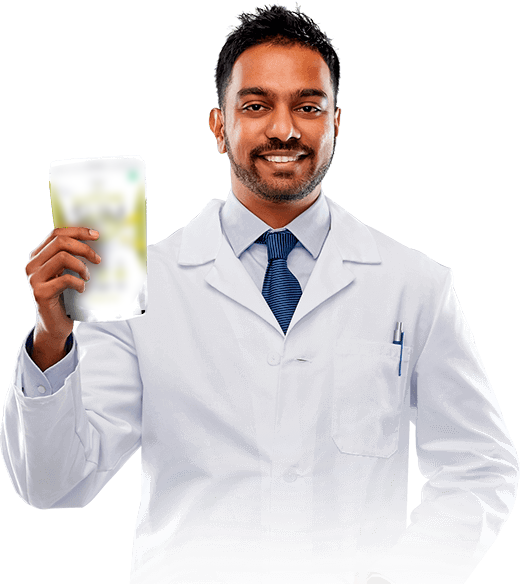
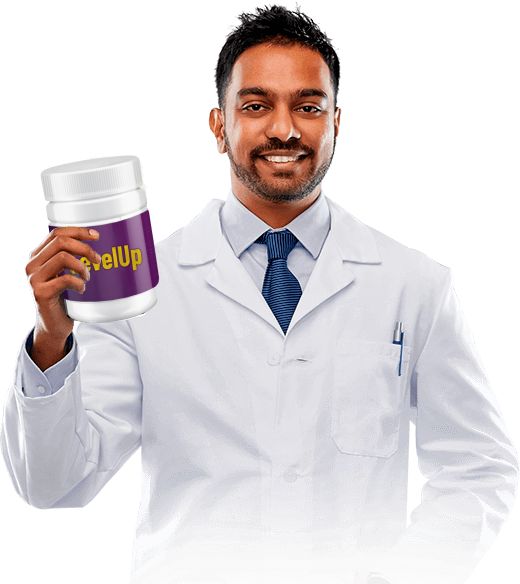
change slider and add photo

Changed region(s): [[0.0615, 0.2466, 0.3077, 0.5548]]

diff --git a/dist/css/style.min.css b/dist/css/style.min.css
@@ -4,4 +4,4 @@
  * Copyright 2011-2020 Twitter, Inc.
  * Licensed under MIT (https://github.com/twbs/bootstrap/blob/main/LICENSE)
  * Forked from Normalize.css, licensed MIT (https://github.com/necolas/normalize.css/blob/master/LICENSE.md)
- */*,::after,::before{box-sizing:border-box}@media (prefers-reduced-motion:no-preference){:root{scroll-behavior:smooth}}body{margin:0;font-family:system-ui,-apple-system,"Segoe UI",Roboto,"Helvetica Neue",Arial,"Noto Sans","Liberation Sans",sans-serif,"Apple Color Emoji","Segoe UI Emoji","Segoe UI Symbol","Noto Color Emoji";font-size:1rem;font-weight:400;line-height:1.5;color:#212529;background-color:#fff;-webkit-text-size-adjust:100%;-webkit-tap-highlight-color:transparent}[tabindex="-1"]:focus:not(:focus-visible){outline:0!important}hr{margin:1rem 0;color:inherit;background-color:currentColor;border:0;opacity:.25}hr:not([size]){height:1px}h1,h2,h3,h4,h5,h6{margin-top:0;margin-bottom:.5rem;font-weight:500;line-height:1.2}h1{font-size:calc(1.375rem + 1.5vw)}@media (min-width:1200px){h1{font-size:2.5rem}}h2{font-size:calc(1.325rem + .9vw)}@media (min-width:1200px){h2{font-size:2rem}}h3{font-size:calc(1.3rem + .6vw)}@media (min-width:1200px){h3{font-size:1.75rem}}h4{font-size:calc(1.275rem + .3vw)}@media (min-width:1200px){h4{font-size:1.5rem}}h5{font-size:1.25rem}h6{font-size:1rem}p{margin-top:0;margin-bottom:1rem}abbr[data-bs-original-title],abbr[title]{text-decoration:underline;-webkit-text-decoration:underline dotted;text-decoration:underline dotted;cursor:help;-webkit-text-decoration-skip-ink:none;text-decoration-skip-ink:none}address{margin-bottom:1rem;font-style:normal;line-height:inherit}ol,ul{padding-left:2rem}dl,ol,ul{margin-top:0;margin-bottom:1rem}ol ol,ol ul,ul ol,ul ul{margin-bottom:0}dt{font-weight:700}dd{margin-bottom:.5rem;margin-left:0}blockquote{margin:0 0 1rem}b,strong{font-weight:bolder}small{font-size:.875em}mark{padding:.2em;background-color:#fcf8e3}sub,sup{position:relative;font-size:.75em;line-height:0;vertical-align:baseline}sub{bottom:-.25em}sup{top:-.5em}a{color:#0d6efd;text-decoration:underline}a:hover{color:#0a58ca}a:not([href]):not([class]),a:not([href]):not([class]):hover{color:inherit;text-decoration:none}code,kbd,pre,samp{font-family:SFMono-Regular,Menlo,Monaco,Consolas,"Liberation Mono","Courier New",monospace;font-size:1em;direction:ltr;unicode-bidi:bidi-override}pre{display:block;margin-top:0;margin-bottom:1rem;overflow:auto;font-size:.875em}pre code{font-size:inherit;color:inherit;word-break:normal}code{font-size:.875em;color:#d63384;word-wrap:break-word}a>code{color:inherit}kbd{padding:.2rem .4rem;font-size:.875em;color:#fff;background-color:#212529;border-radius:.2rem}kbd kbd{padding:0;font-size:1em;font-weight:700}figure{margin:0 0 1rem}img,svg{vertical-align:middle}table{caption-side:bottom;border-collapse:collapse}caption{padding-top:.5rem;padding-bottom:.5rem;color:#6c757d;text-align:left}th{text-align:inherit;text-align:-webkit-match-parent}tbody,td,tfoot,th,thead,tr{border-color:inherit;border-style:solid;border-width:0}label{display:inline-block}button{border-radius:0}button:focus{outline:dotted 1px;outline:-webkit-focus-ring-color auto 5px}button,input,optgroup,select,textarea{margin:0;font-family:inherit;font-size:inherit;line-height:inherit}button,select{text-transform:none}[role=button]{cursor:pointer}select{word-wrap:normal}[list]::-webkit-calendar-picker-indicator{display:none}[type=button],[type=reset],[type=submit],button{-webkit-appearance:button}[type=button]:not(:disabled),[type=reset]:not(:disabled),[type=submit]:not(:disabled),button:not(:disabled){cursor:pointer}::-moz-focus-inner{padding:0;border-style:none}textarea{resize:vertical}fieldset{min-width:0;padding:0;margin:0;border:0}legend{float:left;width:100%;padding:0;margin-bottom:.5rem;font-size:calc(1.275rem + .3vw);line-height:inherit}@media (min-width:1200px){legend{font-size:1.5rem}}legend+*{clear:left}::-webkit-datetime-edit-day-field,::-webkit-datetime-edit-fields-wrapper,::-webkit-datetime-edit-hour-field,::-webkit-datetime-edit-minute,::-webkit-datetime-edit-month-field,::-webkit-datetime-edit-text,::-webkit-datetime-edit-year-field{padding:0}::-webkit-inner-spin-button{height:auto}[type=search]{outline-offset:-2px;-webkit-appearance:textfield}::-webkit-search-decoration{-webkit-appearance:none}::-webkit-color-swatch-wrapper{padding:0}::file-selector-button{font:inherit}::-webkit-file-upload-button{font:inherit;-webkit-appearance:button}output{display:inline-block}iframe{border:0}summary{display:list-item;cursor:pointer}progress{vertical-align:baseline}[hidden]{display:none!important}@font-face{font-family:Roboto;font-display:swap;src:url(../fonts/Roboto-Light.eot);src:url(../fonts/Roboto-Light.eot?#iefix) format("embedded-opentype"),url(../fonts/Roboto-Light.woff) format("woff"),url(../fonts/Roboto-Light.woff2) format("woff2"),url(../fonts/Roboto-Light.ttf) format("truetype");font-weight:300;font-style:normal}@font-face{font-family:Roboto;font-display:swap;src:url(Roboto-Regular.eot);src:url(Roboto-Regular.eot?#iefix) format("embedded-opentype"),url(../fonts/Roboto-Regular.woff) format("woff"),url(../fonts/Roboto-Regular.woff2) format("woff2"),url(../fonts/Roboto-Regular.ttf) format("truetype");font-weight:400;font-style:normal}@font-face{font-family:Roboto;font-display:swap;src:url(../fonts/Roboto-Bold.eot);src:url(../fonts/Roboto-Bold.eot?#iefix) format("embedded-opentype"),url(../fonts/Roboto-Bold.woff) format("woff"),url(../fonts/Roboto-Bold.woff2) format("woff2"),url(../fonts/Roboto-Bold.ttf) format("truetype");font-weight:700;font-style:normal}.promo{position:relative;min-height:725px;overflow:hidden;padding:40px 0 70px 0}.promo__bg::after{content:'';position:absolute;top:0;left:0;width:100%;height:100%;z-index:5;background-color:rgba(0,0,0,.8)}.promo__bg{position:absolute;top:0;left:0;width:100%;height:100%;overflow:hidden;background-color:#ccc}.promo__video{position:absolute;top:50%;left:50%;min-width:100%;min-height:100%;-o-object-fit:cover;object-fit:cover;transform:translate(-50%,-50%)}.promo__content{background-color:rgba(0,0,0,.6);position:absolute;top:0;left:0;width:100%;height:100%;z-index:10}.promo__wrapper{padding:50px 0 30px;display:flex;justify-content:center}.promo__img{width:235px}.promo__img img{width:100%}.promo__list{position:relative;margin-left:65px;padding-top:40px;width:500px;font-weight:400;font-size:26px;color:#fff;list-style-type:none}.promo__list li{position:relative;margin-bottom:45px}.promo__list li::before{content:'';position:absolute;background-color:#e98d25;width:10px;height:10px;left:-28px;top:14px}.title{color:#e98d25;text-align:center;font-weight:700;font-size:80px}.button{display:block;margin:0 auto;padding-top:8px;width:180px;height:45px;border-radius:15px;background-color:#e98d25;border:none;color:#fff;font-size:18px;font-weight:400;text-align:center;text-transform:uppercase}.button:hover{box-shadow:0 0 8px 3px #cfa20e}.button_form{padding:0;width:220px}@media (max-width:776px){.button{width:130px;height:23px}.button_main{width:270px;height:38px}.button_submit{width:100%;height:47px;font-size:16px}.button_mini{width:115px;height:40px;font-size:14px}}@media (max-width:575px){.button_submit{height:43px;font-size:16px}}.composition{min-height:670px;padding:70px 0;background:linear-gradient(to bottom right,#8089af,#a86c3b)}.composition__wrapper{padding-bottom:30px;display:flex;justify-content:space-around;align-items:center}.composition__prod{width:245px}.composition__prod img{width:100%}.items{display:flex;flex-direction:column;align-items:center}.items__item{width:260px;text-align:center;font-size:17px;line-height:1.5;font-weight:300;color:#fff;margin-bottom:33px}.items__ring{margin:0 auto;width:90px;height:90px;display:flex;justify-content:center;align-items:center;border:#e98d25 solid 3px;border-radius:100%}@media (max-width:1201px){.items__item{width:200px;font-size:13px}}@media (max-width:991px){.items__item{width:165px;font-size:12px;margin:0 7px 20px 7px}.items__item:nth-child(4){margin-right:7px}.items__item:nth-child(7){margin-right:7px}.items__item span{font-size:14px}.items__item img{margin-bottom:10px;width:50px}}.reviews{position:relative;min-height:470px;padding:51px 0 65px 0;background:linear-gradient(to top right,#cdd0df,#ca8e5e)}.reviews__title{color:#000;font-weight:700;font-size:25px;text-transform:uppercase;text-align:center;margin-bottom:60px}.reviews .carousel{width:80%;margin:0 auto}.reviews .slick-arrow{position:absolute;top:12%;border:none;background-color:#fff}.reviews .slick-arrow:active,.reviews .slick-arrow:focus{outline:0;border:none}.reviews .slick-arrow img{width:14px;height:46px}.reviews .slick-prev{left:41%;z-index:2}.reviews .slick-next{right:41%}@media (max-width:991px){.reviews .slick-prev{left:34%}.reviews .slick-next{right:34%}}@media (max-width:575px){.reviews{padding:30px 15px 10px}.reviews .slick-prev{left:28%}.reviews .slick-next{right:28%}}.scrollUp_flex{display:flex;position:fixed;right:40px;bottom:40px;width:60px;height:60px;border-radius:100%;background-color:#e98d25;justify-content:center;align-items:center}@media (max-width:776px){.scrollUp_flex{right:10px;bottom:10px;width:50px;height:50px}}.scrollUp_flex img{width:90%;padding-bottom:3px}.scrollUp{display:none}.promo-2{min-height:670px;padding:70px 0;background:linear-gradient(to top right,#828bb1,#85654b)}.promo-2__wrapper{display:flex;justify-content:center;align-items:center}.promo-2__img{width:300px}.promo-2__img img{width:100%}.promo-2__descr{margin-left:60px;width:500px;font-weight:400;font-size:20px;color:#fff}.promo-2__list{margin:50px 0;display:flex;justify-content:space-around;font-weight:400;font-size:18px;color:#e98d25;list-style-type:none;text-transform:uppercase}.form-order{min-height:670px;padding:70px 0;background:linear-gradient(to bottom right,#8089af,#a86c3b)}.form-order__timer{margin-top:30px;display:flex;justify-content:center}.form-order__wrapper{margin-top:60px;display:flex;justify-content:center}.form-order__prod{display:flex;align-items:center;margin-right:80px}.form-order__price{margin-right:30px;display:flex;flex-direction:column;height:200px;width:200px;align-items:center;font-weight:700;justify-content:space-around}.form-order__newPrice{color:red;font-size:37px;-webkit-animation:heartbeat 3s ease infinite;animation:heartbeat 3s ease infinite}.form-order__oldPrice{color:#351d1d;font-size:30px;text-decoration:line-through}.form-order__img{width:250px}.form-order__img img{width:100%}.form{display:flex;flex-direction:column;width:400px;height:355px;align-items:center;background-color:rgba(109,103,103,.8);border:#363131 solid 1px;border-radius:0 0 5px 5px}.form__title{padding-top:8px;text-align:center;width:100%;height:50px;background-color:#28163e;font-weight:400;font-size:26px;color:#fff}.form input{margin:20px 0;width:80%;height:40px;border-radius:10px;padding-left:20px;color:#000;font-size:18px;font-weight:300}.form input:nth-child(3){margin-bottom:70px}.countdown{display:flex;color:#fff;font-weight:400;text-align:center;font-size:30px}.countdown-number{display:flex;flex-direction:column;padding:5px;margin:0 3px;border-radius:10px;background:#e98d25}.countdown-time{padding:15px;border-radius:10px;background:#cf9e42}.countdown-text{display:block;padding-top:5px;font-size:16px}@-webkit-keyframes heartbeat{from{transform:scale(1)}50%{transform:scale(1.2)}to{transform:scale(1)}}@keyframes heartbeat{from{transform:scale(1)}50%{transform:scale(1.2)}to{transform:scale(1)}}.slick-slider{position:relative;margin-top:31px;display:block;box-sizing:border-box;-webkit-user-select:none;-moz-user-select:none;-ms-user-select:none;user-select:none;-webkit-touch-callout:none;-khtml-user-select:none;touch-action:pan-y;-webkit-tap-highlight-color:transparent}.slick-list{position:relative;display:block;overflow:hidden;margin:0;padding:0}.slick-list:focus{outline:0}.slick-list.dragging{cursor:pointer;cursor:hand}.slick-slider .slick-list,.slick-slider .slick-track{transform:translate3d(0,0,0)}.slick-track{position:relative;top:0;left:0;display:block;margin-left:0;margin-right:0}.slick-track:after,.slick-track:before{display:table;content:''}.slick-track:after{clear:both}.slick-loading .slick-track{visibility:hidden}.slick-slide{display:none;float:left;opacity:.4;height:100%;min-height:1px}.slick-slide .carousel__title{margin-top:19px;font-size:18px;font-weight:700;color:#3a3a3a;text-align:center}.slick-slide .carousel__descr{padding:0 80px 0 80px;margin-top:4px;font-size:10px;font-weight:400;color:#3a3a3a;text-align:center}@media (max-width:1201px){.slick-slide .carousel__descr{padding:0 60px 0 60px}}.slick-slide .carousel__title{margin-top:12px;font-size:14px}[dir=rtl] .slick-slide{float:right}.slick-slide img{display:block;margin:0 auto;width:75px;height:75px;border-radius:100%}.slick-slide.slick-loading img{display:none}.slick-slide.dragging img{pointer-events:none}.slick-initialized .slick-slide{display:block}.slick-loading .slick-slide{visibility:hidden}.slick-vertical .slick-slide{display:block;height:auto;border:1px solid transparent}.slick-arrow.slick-hidden{display:none}.slick-center{width:600px;opacity:1}.slick-center .carousel__title{margin-top:14px;font-size:16px}@media (max-width:575px){.slick-center .carousel__title{font-size:14px}}.slick-center .carousel__descr{margin-top:2px;padding:0;font-size:14px}@media (max-width:575px){.slick-center .carousel__descr{font-size:12px}}.slick-center img{width:114px;height:114px}*{font-family:Roboto,sans-serif}.container{width:1140px;position:relative;margin:0 auto}a{text-decoration:none}a:hover{color:#fff}@media (max-width:1201px){.container{width:900px}}@media (max-width:991px){.container{width:700px}}@media (max-width:776px){.container{width:500px}}@media (max-width:575px){.container{width:85%}}
+ */*,::after,::before{box-sizing:border-box}@media (prefers-reduced-motion:no-preference){:root{scroll-behavior:smooth}}body{margin:0;font-family:system-ui,-apple-system,"Segoe UI",Roboto,"Helvetica Neue",Arial,"Noto Sans","Liberation Sans",sans-serif,"Apple Color Emoji","Segoe UI Emoji","Segoe UI Symbol","Noto Color Emoji";font-size:1rem;font-weight:400;line-height:1.5;color:#212529;background-color:#fff;-webkit-text-size-adjust:100%;-webkit-tap-highlight-color:transparent}[tabindex="-1"]:focus:not(:focus-visible){outline:0!important}hr{margin:1rem 0;color:inherit;background-color:currentColor;border:0;opacity:.25}hr:not([size]){height:1px}h1,h2,h3,h4,h5,h6{margin-top:0;margin-bottom:.5rem;font-weight:500;line-height:1.2}h1{font-size:calc(1.375rem + 1.5vw)}@media (min-width:1200px){h1{font-size:2.5rem}}h2{font-size:calc(1.325rem + .9vw)}@media (min-width:1200px){h2{font-size:2rem}}h3{font-size:calc(1.3rem + .6vw)}@media (min-width:1200px){h3{font-size:1.75rem}}h4{font-size:calc(1.275rem + .3vw)}@media (min-width:1200px){h4{font-size:1.5rem}}h5{font-size:1.25rem}h6{font-size:1rem}p{margin-top:0;margin-bottom:1rem}abbr[data-bs-original-title],abbr[title]{text-decoration:underline;-webkit-text-decoration:underline dotted;text-decoration:underline dotted;cursor:help;-webkit-text-decoration-skip-ink:none;text-decoration-skip-ink:none}address{margin-bottom:1rem;font-style:normal;line-height:inherit}ol,ul{padding-left:2rem}dl,ol,ul{margin-top:0;margin-bottom:1rem}ol ol,ol ul,ul ol,ul ul{margin-bottom:0}dt{font-weight:700}dd{margin-bottom:.5rem;margin-left:0}blockquote{margin:0 0 1rem}b,strong{font-weight:bolder}small{font-size:.875em}mark{padding:.2em;background-color:#fcf8e3}sub,sup{position:relative;font-size:.75em;line-height:0;vertical-align:baseline}sub{bottom:-.25em}sup{top:-.5em}a{color:#0d6efd;text-decoration:underline}a:hover{color:#0a58ca}a:not([href]):not([class]),a:not([href]):not([class]):hover{color:inherit;text-decoration:none}code,kbd,pre,samp{font-family:SFMono-Regular,Menlo,Monaco,Consolas,"Liberation Mono","Courier New",monospace;font-size:1em;direction:ltr;unicode-bidi:bidi-override}pre{display:block;margin-top:0;margin-bottom:1rem;overflow:auto;font-size:.875em}pre code{font-size:inherit;color:inherit;word-break:normal}code{font-size:.875em;color:#d63384;word-wrap:break-word}a>code{color:inherit}kbd{padding:.2rem .4rem;font-size:.875em;color:#fff;background-color:#212529;border-radius:.2rem}kbd kbd{padding:0;font-size:1em;font-weight:700}figure{margin:0 0 1rem}img,svg{vertical-align:middle}table{caption-side:bottom;border-collapse:collapse}caption{padding-top:.5rem;padding-bottom:.5rem;color:#6c757d;text-align:left}th{text-align:inherit;text-align:-webkit-match-parent}tbody,td,tfoot,th,thead,tr{border-color:inherit;border-style:solid;border-width:0}label{display:inline-block}button{border-radius:0}button:focus{outline:dotted 1px;outline:-webkit-focus-ring-color auto 5px}button,input,optgroup,select,textarea{margin:0;font-family:inherit;font-size:inherit;line-height:inherit}button,select{text-transform:none}[role=button]{cursor:pointer}select{word-wrap:normal}[list]::-webkit-calendar-picker-indicator{display:none}[type=button],[type=reset],[type=submit],button{-webkit-appearance:button}[type=button]:not(:disabled),[type=reset]:not(:disabled),[type=submit]:not(:disabled),button:not(:disabled){cursor:pointer}::-moz-focus-inner{padding:0;border-style:none}textarea{resize:vertical}fieldset{min-width:0;padding:0;margin:0;border:0}legend{float:left;width:100%;padding:0;margin-bottom:.5rem;font-size:calc(1.275rem + .3vw);line-height:inherit}@media (min-width:1200px){legend{font-size:1.5rem}}legend+*{clear:left}::-webkit-datetime-edit-day-field,::-webkit-datetime-edit-fields-wrapper,::-webkit-datetime-edit-hour-field,::-webkit-datetime-edit-minute,::-webkit-datetime-edit-month-field,::-webkit-datetime-edit-text,::-webkit-datetime-edit-year-field{padding:0}::-webkit-inner-spin-button{height:auto}[type=search]{outline-offset:-2px;-webkit-appearance:textfield}::-webkit-search-decoration{-webkit-appearance:none}::-webkit-color-swatch-wrapper{padding:0}::file-selector-button{font:inherit}::-webkit-file-upload-button{font:inherit;-webkit-appearance:button}output{display:inline-block}iframe{border:0}summary{display:list-item;cursor:pointer}progress{vertical-align:baseline}[hidden]{display:none!important}@font-face{font-family:Roboto;font-display:swap;src:url(../fonts/Roboto-Light.eot);src:url(../fonts/Roboto-Light.eot?#iefix) format("embedded-opentype"),url(../fonts/Roboto-Light.woff) format("woff"),url(../fonts/Roboto-Light.woff2) format("woff2"),url(../fonts/Roboto-Light.ttf) format("truetype");font-weight:300;font-style:normal}@font-face{font-family:Roboto;font-display:swap;src:url(Roboto-Regular.eot);src:url(Roboto-Regular.eot?#iefix) format("embedded-opentype"),url(../fonts/Roboto-Regular.woff) format("woff"),url(../fonts/Roboto-Regular.woff2) format("woff2"),url(../fonts/Roboto-Regular.ttf) format("truetype");font-weight:400;font-style:normal}@font-face{font-family:Roboto;font-display:swap;src:url(../fonts/Roboto-Bold.eot);src:url(../fonts/Roboto-Bold.eot?#iefix) format("embedded-opentype"),url(../fonts/Roboto-Bold.woff) format("woff"),url(../fonts/Roboto-Bold.woff2) format("woff2"),url(../fonts/Roboto-Bold.ttf) format("truetype");font-weight:700;font-style:normal}.promo{position:relative;min-height:725px;overflow:hidden;padding:40px 0 70px 0}.promo__bg::after{content:'';position:absolute;top:0;left:0;width:100%;height:100%;z-index:5;background-color:rgba(0,0,0,.8)}.promo__bg{position:absolute;top:0;left:0;width:100%;height:100%;overflow:hidden;background-color:#ccc}.promo__video{position:absolute;top:50%;left:50%;min-width:100%;min-height:100%;-o-object-fit:cover;object-fit:cover;transform:translate(-50%,-50%)}.promo__content{background-color:rgba(0,0,0,.6);position:absolute;top:0;left:0;width:100%;height:100%;z-index:10}.promo__wrapper{padding:50px 0 30px;display:flex;justify-content:center}.promo__img{width:235px}.promo__img img{width:100%}.promo__list{position:relative;margin-left:65px;padding-top:40px;width:500px;font-weight:400;font-size:26px;color:#fff;list-style-type:none}.promo__list li{position:relative;margin-bottom:45px}.promo__list li::before{content:'';position:absolute;background-color:#e98d25;width:10px;height:10px;left:-28px;top:14px}.title{color:#e98d25;text-align:center;font-weight:700;font-size:80px}.button{display:block;margin:0 auto;padding-top:8px;width:180px;height:45px;border-radius:15px;background-color:#e98d25;border:none;color:#fff;font-size:18px;font-weight:400;text-align:center;text-transform:uppercase}.button:hover{box-shadow:0 0 8px 3px #cfa20e}.button_form{padding:0;width:220px}@media (max-width:776px){.button{width:130px;height:23px}.button_main{width:270px;height:38px}.button_submit{width:100%;height:47px;font-size:16px}.button_mini{width:115px;height:40px;font-size:14px}}@media (max-width:575px){.button_submit{height:43px;font-size:16px}}.composition{min-height:670px;padding:70px 0;background:linear-gradient(to bottom right,#8089af,#a86c3b)}.composition__wrapper{padding-bottom:30px;display:flex;justify-content:space-around;align-items:center}.composition__prod{width:245px}.composition__prod img{width:100%}.items{display:flex;flex-direction:column;align-items:center}.items__item{width:260px;text-align:center;font-size:17px;line-height:1.5;font-weight:300;color:#fff;margin-bottom:33px}.items__ring{margin:0 auto;width:90px;height:90px;display:flex;justify-content:center;align-items:center;border:#e98d25 solid 3px;border-radius:100%}@media (max-width:1201px){.items__item{width:200px;font-size:13px}}@media (max-width:991px){.items__item{width:165px;font-size:12px;margin:0 7px 20px 7px}.items__item:nth-child(4){margin-right:7px}.items__item:nth-child(7){margin-right:7px}.items__item span{font-size:14px}.items__item img{margin-bottom:10px;width:50px}}.reviews{position:relative;min-height:470px;padding:51px 0 65px 0;background:linear-gradient(to top right,#cdd0df,#ca8e5e)}.reviews__title{color:#000;font-weight:700;font-size:25px;text-transform:uppercase;text-align:center;margin-bottom:60px}.reviews .carousel{width:80%;margin:0 auto}.reviews .slick-arrow{position:absolute;top:12%;border:none}.reviews .slick-arrow:active,.reviews .slick-arrow:focus{outline:0;border:none}.reviews .slick-arrow img{width:14px;height:46px}.reviews .slick-prev{left:41%;z-index:2;background-color:#cbad9b}.reviews .slick-next{right:41%;background-color:#cca993}@media (max-width:991px){.reviews .slick-prev{left:34%}.reviews .slick-next{right:34%}}@media (max-width:575px){.reviews{padding:30px 15px 10px}.reviews .slick-prev{left:28%}.reviews .slick-next{right:28%}}.scrollUp_flex{display:flex;position:fixed;right:40px;bottom:40px;width:60px;height:60px;border-radius:100%;background-color:#e98d25;justify-content:center;align-items:center}@media (max-width:776px){.scrollUp_flex{right:10px;bottom:10px;width:50px;height:50px}}.scrollUp_flex img{width:90%;padding-bottom:3px}.scrollUp{display:none}.promo-2{min-height:670px;padding:70px 0;background:linear-gradient(to top right,#828bb1,#85654b)}.promo-2__wrapper{display:flex;justify-content:center;align-items:center}.promo-2__img{width:300px}.promo-2__img img{width:100%}.promo-2__descr{margin-left:60px;width:500px;font-weight:400;font-size:20px;color:#fff}.promo-2__list{margin:50px 0;display:flex;justify-content:space-around;font-weight:400;font-size:18px;color:#e98d25;list-style-type:none;text-transform:uppercase}.form-order{min-height:670px;padding:70px 0;background:linear-gradient(to bottom right,#8089af,#a86c3b)}.form-order__timer{margin-top:30px;display:flex;justify-content:center}.form-order__wrapper{margin-top:60px;display:flex;justify-content:center}.form-order__prod{display:flex;align-items:center;margin-right:80px}.form-order__price{margin-right:30px;display:flex;flex-direction:column;height:200px;width:200px;align-items:center;font-weight:700;justify-content:space-around}.form-order__newPrice{color:red;font-size:37px;-webkit-animation:heartbeat 3s ease infinite;animation:heartbeat 3s ease infinite}.form-order__oldPrice{color:#351d1d;font-size:30px;text-decoration:line-through}.form-order__img{width:250px}.form-order__img img{width:100%}.form{display:flex;flex-direction:column;width:400px;height:355px;align-items:center;background-color:rgba(109,103,103,.8);border:#363131 solid 1px;border-radius:0 0 5px 5px}.form__title{padding-top:8px;text-align:center;width:100%;height:50px;background-color:#28163e;font-weight:400;font-size:26px;color:#fff}.form input{margin:20px 0;width:80%;height:40px;border-radius:10px;padding-left:20px;color:#000;font-size:18px;font-weight:300}.form input:nth-child(3){margin-bottom:70px}.countdown{display:flex;color:#fff;font-weight:400;text-align:center;font-size:30px}.countdown-number{display:flex;flex-direction:column;padding:5px;margin:0 3px;border-radius:10px;background:#e98d25}.countdown-time{padding:15px;border-radius:10px;background:#cf9e42}.countdown-text{display:block;padding-top:5px;font-size:16px}@-webkit-keyframes heartbeat{from{transform:scale(1)}50%{transform:scale(1.2)}to{transform:scale(1)}}@keyframes heartbeat{from{transform:scale(1)}50%{transform:scale(1.2)}to{transform:scale(1)}}.slick-slider{position:relative;margin-top:31px;display:block;box-sizing:border-box;-webkit-user-select:none;-moz-user-select:none;-ms-user-select:none;user-select:none;-webkit-touch-callout:none;-khtml-user-select:none;touch-action:pan-y;-webkit-tap-highlight-color:transparent}.slick-list{position:relative;display:block;overflow:hidden;margin:0;padding:0}.slick-list:focus{outline:0}.slick-list.dragging{cursor:pointer;cursor:hand}.slick-slider .slick-list,.slick-slider .slick-track{transform:translate3d(0,0,0)}.slick-track{position:relative;top:0;left:0;display:block;margin-left:0;margin-right:0}.slick-track:after,.slick-track:before{display:table;content:''}.slick-track:after{clear:both}.slick-loading .slick-track{visibility:hidden}.slick-slide{display:none;float:left;opacity:.4;height:100%;min-height:1px}.slick-slide .carousel__title{margin-top:19px;font-size:18px;font-weight:700;color:#3a3a3a;text-align:center}.slick-slide .carousel__descr{padding:0 80px 0 80px;margin-top:4px;font-size:10px;font-weight:400;color:#3a3a3a;text-align:center}@media (max-width:1201px){.slick-slide .carousel__descr{padding:0 60px 0 60px}}.slick-slide .carousel__title{margin-top:12px;font-size:14px}[dir=rtl] .slick-slide{float:right}.slick-slide img{display:block;margin:0 auto;width:75px;height:75px;border-radius:100%}.slick-slide.slick-loading img{display:none}.slick-slide.dragging img{pointer-events:none}.slick-initialized .slick-slide{display:block}.slick-loading .slick-slide{visibility:hidden}.slick-vertical .slick-slide{display:block;height:auto;border:1px solid transparent}.slick-arrow.slick-hidden{display:none}.slick-center{width:600px;opacity:1}.slick-center .carousel__title{margin-top:14px;font-size:20px}@media (max-width:575px){.slick-center .carousel__title{font-size:14px}}.slick-center .carousel__descr{margin-top:2px;padding:0;font-size:16px}@media (max-width:575px){.slick-center .carousel__descr{font-size:12px}}.slick-center img{width:114px;height:114px}*{font-family:Roboto,sans-serif}.container{width:1140px;position:relative;margin:0 auto}a{text-decoration:none}a:hover{color:#fff}@media (max-width:1201px){.container{width:900px}}@media (max-width:991px){.container{width:700px}}@media (max-width:776px){.container{width:500px}}@media (max-width:575px){.container{width:85%}}

diff --git a/dist/index.html b/dist/index.html
@@ -1,1 +1,1 @@
-<!DOCTYPE html><html lang="ru"><head><meta charset="UTF-8"><meta name="viewport" content="width=device-width,initial-scale=1"><title>LevelUp</title><link rel="shortcut icon" href="icons/favicon.ico" type="image/x-icon"><link rel="stylesheet" href="css/style.min.css"></head><body><section class="promo" id="up"><div class="promo__bg"><video autoplay muted loop class="promo__video"><source src="video/Sea - 4006.mp4" type="video/mp4"></video></div><div class="container"><div class="promo__content"><h1 class="title">LevelUp</h1><div class="promo__wrapper"><div class="promo__img"><img src="img/prod.png" alt="prod"></div><ul class="promo__list"><li class="promo__charact">Cильная эрекция после применения препарата</li><li class="promo__charact">Увеличение времени полового акта</li><li class="promo__charact">Оргазм стал более ярким и длительным</li></ul></div><a href="#form" class="button">Заказать</a></div></div></section><section class="composition"><div class="container"><div class="composition__wrapper"><div class="items"><div class="items__item"><div class="items__ring"><img src="icons/s1_i5.png" alt="icon"></div><br>Корень женьшеня</div><div class="items__item"><div class="items__ring"><img src="icons/s1_i5.png" alt="icon"></div><br>Корень женьшеня</div><div class="items__item"><div class="items__ring"><img src="icons/s1_i5.png" alt="icon"></div><br>Корень женьшеня</div></div><div class="composition__prod"><img src="img/prod.png" alt="prod"></div><div class="items"><div class="items__item"><div class="items__ring"><img src="icons/s1_i5.png" alt="icon"></div><br>Корень женьшеня</div><div class="items__item"><div class="items__ring"><img src="icons/s1_i5.png" alt="icon"></div><br>Корень женьшеня</div><div class="items__item"><div class="items__ring"><img src="icons/s1_i5.png" alt="icon"></div><br>Корень женьшеня</div></div></div><a href="#form" class="button">Заказать</a></div></section><div class="reviews"><h2 class="reviews__title">отзывы наших клиентов</h2><div class="carousel"><div class="carousel__item"><div class="carousel__img"><img src="img/reviews/s7_olga.jpg" alt="foto"></div><div class="carousel__title">Анисимова Ольга</div><div class="carousel__descr">Хочу рассказать о компании Global Opt. Самое главное что меня радует, это быстрый поиск и анализ определенного товара. Доставляла через компанию уже много раз, от расходных материалов для отеля, до больших партий детской одежды. Буду продолжать пользоваться услугами данной компании</div></div><div class="carousel__item"><div class="carousel__img"><img src="img/reviews/сергей.jpg" alt="foto"></div><div class="carousel__title">Валиев Сергей</div><div class="carousel__descr">Хочу рассказать о компании Global Opt. Самое главное что меня радует, это быстрый поиск и анализ определенного товара. Доставлял через компанию уже много раз, от расходных материалов для отеля, до больших партий детской одежды. Буду продолжать пользоваться услугами данной компании</div></div><div class="carousel__item"><div class="carousel__img"><img src="img/reviews/дмитрий.jpg" alt="foto"></div><div class="carousel__title">Иванов Дмитрий</div><div class="carousel__descr">Хочу рассказать о компании Global Opt. Самое главное что меня радует, это быстрый поиск и анализ определенного товара. Доставлял через компанию уже много раз, от расходных материалов для отеля, до больших партий детской одежды. Буду продолжать пользоваться услугами данной компании</div></div><div class="carousel__item"><div class="carousel__img"><img src="img/reviews/s7_olga.jpg" alt="foto"></div><div class="carousel__title">Анисимова Ольга</div><div class="carousel__descr">Хочу рассказать о компании Global Opt. Самое главное что меня радует, это быстрый поиск и анализ определенного товара. Доставляла через компанию уже много раз, от расходных материалов для отеля, до больших партий детской одежды. Буду продолжать пользоваться услугами данной компании</div></div></div></div><section class="promo-2"><div class="container"><div class="promo-2__wrapper"><div class="promo-2__img"><img src="img/doctor.png" alt="doctor"></div><div class="promo-2__descr">Препарат проникает в предстательную железу, секретируется самой железой, разжижает её секрет за счёт своей высокой поверхностной активности и способствует его выведению. Восстанавливает естественную вязкость и бактерицидность секрета предстательной железы. Обладает анальгетическим,бактерицидным и фибринолитическим действием. Активирует кровоток и отток лимфы, устраняет всю патогенную микрофлору.</div></div><ul class="promo-2__list"><li>Восстановление полноценной эрекции</li><li>Улучшение кровоснабжения</li><li>Повышение уровня тестостерона</li></ul><a href="#form" class="button">Заказать</a></div></section><section class="form-order"><div class="container"><h2 class="title">LevelUp</h2><div class="form-order__timer"><div id="countdown" class="countdown"><div class="countdown-number"><span class="days countdown-time"></span> <span class="countdown-text">дней</span></div><div class="countdown-number"><span class="hours countdown-time"></span> <span class="countdown-text">часов</span></div><div class="countdown-number"><span class="minutes countdown-time"></span> <span class="countdown-text">минут</span></div><div class="countdown-number"><span class="seconds countdown-time"></span> <span class="countdown-text">секунд</span></div></div></div><div class="form-order__wrapper" id="form"><div class="form-order__prod"><div class="form-order__price"><div class="form-order__newPrice">800 руб.</div><div class="form-order__oldPrice">1500 руб.</div></div><div class="form-order__img"><img src="img/prod.png" alt="prod"></div></div><form class="form" action=""><h3 class="form__title">Заказать консультацию</h3><input type="text" placeholder="Иван"> <input type="number" placeholder="89555554433"> <button class="button button_form">Отправить заявку</button></form></div></div></section><a href="#up" id="scroll" class="scrollUp scrollUp_flex"><img src="icons/arrows/up.svg" alt="up"></a><script src="//code.jquery.com/jquery-1.11.0.min.js"></script><script src="//code.jquery.com/jquery-migrate-1.2.1.min.js"></script><script src="js/slick.min.js"></script><script src="js/script.js"></script></body></html>
+<!DOCTYPE html><html lang="ru"><head><meta charset="UTF-8"><meta name="viewport" content="width=device-width,initial-scale=1"><title>LevelUp</title><link rel="shortcut icon" href="icons/favicon.ico" type="image/x-icon"><link rel="stylesheet" href="css/style.min.css"></head><body><section class="promo" id="up"><div class="promo__bg"><video autoplay muted loop class="promo__video"><source src="video/Sea - 4006.mp4" type="video/mp4"></video></div><div class="container"><div class="promo__content"><h1 class="title">LevelUp</h1><div class="promo__wrapper"><div class="promo__img"><img src="img/prod.png" alt="prod"></div><ul class="promo__list"><li class="promo__charact">Cильная эрекция после применения препарата</li><li class="promo__charact">Увеличение времени полового акта</li><li class="promo__charact">Оргазм стал более ярким и длительным</li></ul></div><a href="#form" class="button">Заказать</a></div></div></section><section class="composition"><div class="container"><div class="composition__wrapper"><div class="items"><div class="items__item"><div class="items__ring"><img src="icons/s1_i5.png" alt="icon"></div><br>Корень женьшеня</div><div class="items__item"><div class="items__ring"><img src="icons/s1_i5.png" alt="icon"></div><br>Корень женьшеня</div><div class="items__item"><div class="items__ring"><img src="icons/s1_i5.png" alt="icon"></div><br>Корень женьшеня</div></div><div class="composition__prod"><img src="img/prod.png" alt="prod"></div><div class="items"><div class="items__item"><div class="items__ring"><img src="icons/s1_i5.png" alt="icon"></div><br>Корень женьшеня</div><div class="items__item"><div class="items__ring"><img src="icons/s1_i5.png" alt="icon"></div><br>Корень женьшеня</div><div class="items__item"><div class="items__ring"><img src="icons/s1_i5.png" alt="icon"></div><br>Корень женьшеня</div></div></div><a href="#form" class="button">Заказать</a></div></section><div class="reviews"><h2 class="reviews__title">отзывы наших клиентов</h2><div class="carousel"><div class="carousel__item"><div class="carousel__img"><img src="img/reviews/s7_olga.jpg" alt="foto"></div><div class="carousel__title">Анисимова Ольга</div><div class="carousel__descr">Муж мой сейчас его принимает, рада что он именно на эффекс нейро остановился, так как препарат натуральный и эффективный для мужского здоровья. Состав, когда прогуглила стало понятно, в отличии от аналогов в нем нет ничего вредног, основа — это аминокислоты и витамины. Эффект постепенно проявляется, но как по мне я начала замечать, что мужу стало чаще хотеться уже к концу первого месяца приема. На максимум он себя проявил месяцу к третьему, тут уже муж и выносливостью стал радовать и сам говорит, что ощущения обострились. В период стресса мужчинам советую принимать, поддержка здоровью отличная.</div></div><div class="carousel__item"><div class="carousel__img"><img src="img/reviews/сергей.jpg" alt="foto"></div><div class="carousel__title">Валиев Сергей</div><div class="carousel__descr">Муж мой сейчас его принимает, рада что он именно на эффекс нейро остановился, так как препарат натуральный и эффективный для мужского здоровья. Состав, когда прогуглила стало понятно, в отличии от аналогов в нем нет ничего вредног, основа — это аминокислоты и витамины. Эффект постепенно проявляется, но как по мне я начала замечать, что мужу стало чаще хотеться уже к концу первого месяца приема. На максимум он себя проявил месяцу к третьему, тут уже муж и выносливостью стал радовать и сам говорит, что ощущения обострились. В период стресса мужчинам советую принимать, поддержка здоровью отличная.</div></div><div class="carousel__item"><div class="carousel__img"><img src="img/reviews/дмитрий.jpg" alt="foto"></div><div class="carousel__title">Иванов Дмитрий</div><div class="carousel__descr">Муж мой сейчас его принимает, рада что он именно на эффекс нейро остановился, так как препарат натуральный и эффективный для мужского здоровья. Состав, когда прогуглила стало понятно, в отличии от аналогов в нем нет ничего вредног, основа — это аминокислоты и витамины. Эффект постепенно проявляется, но как по мне я начала замечать, что мужу стало чаще хотеться уже к концу первого месяца приема. На максимум он себя проявил месяцу к третьему, тут уже муж и выносливостью стал радовать и сам говорит, что ощущения обострились. В период стресса мужчинам советую принимать, поддержка здоровью отличная.</div></div></div></div><section class="promo-2"><div class="container"><div class="promo-2__wrapper"><div class="promo-2__img"><img src="img/doctor.png" alt="doctor"></div><div class="promo-2__descr">Препарат проникает в предстательную железу, секретируется самой железой, разжижает её секрет за счёт своей высокой поверхностной активности и способствует его выведению. Восстанавливает естественную вязкость и бактерицидность секрета предстательной железы. Обладает анальгетическим,бактерицидным и фибринолитическим действием. Активирует кровоток и отток лимфы, устраняет всю патогенную микрофлору.</div></div><ul class="promo-2__list"><li>Восстановление полноценной эрекции</li><li>Улучшение кровоснабжения</li><li>Повышение уровня тестостерона</li></ul><a href="#form" class="button">Заказать</a></div></section><section class="form-order"><div class="container"><h2 class="title">LevelUp</h2><div class="form-order__timer"><div id="countdown" class="countdown"><div class="countdown-number"><span class="days countdown-time"></span> <span class="countdown-text">дней</span></div><div class="countdown-number"><span class="hours countdown-time"></span> <span class="countdown-text">часов</span></div><div class="countdown-number"><span class="minutes countdown-time"></span> <span class="countdown-text">минут</span></div><div class="countdown-number"><span class="seconds countdown-time"></span> <span class="countdown-text">секунд</span></div></div></div><div class="form-order__wrapper" id="form"><div class="form-order__prod"><div class="form-order__price"><div class="form-order__newPrice">800 руб.</div><div class="form-order__oldPrice">1500 руб.</div></div><div class="form-order__img"><img src="img/prod.png" alt="prod"></div></div><form class="form" action=""><h3 class="form__title">Заказать консультацию</h3><input type="text" placeholder="Иван"> <input type="number" placeholder="89555554433"> <button class="button button_form">Отправить заявку</button></form></div></div></section><a href="#up" id="scroll" class="scrollUp scrollUp_flex"><img src="icons/arrows/up.svg" alt="up"></a><script src="//code.jquery.com/jquery-1.11.0.min.js"></script><script src="//code.jquery.com/jquery-migrate-1.2.1.min.js"></script><script src="js/slick.min.js"></script><script src="js/script.js"></script></body></html>

diff --git a/src/index.html b/src/index.html
@@ -88,30 +88,23 @@
                 <div class="carousel__img"><img src="img/reviews/s7_olga.jpg" alt="foto"></div>
                 <div class="carousel__title">Анисимова Ольга</div>
                 <div class="carousel__descr">
-                    Хочу рассказать о компании Global Opt. Самое главное что меня радует, это быстрый поиск и анализ определенного товара. Доставляла через компанию уже много раз, от расходных материалов для отеля, до больших партий детской одежды. Буду продолжать пользоваться услугами данной компании
+                    Муж мой сейчас его принимает, рада что он именно на эффекс нейро остановился, так как препарат натуральный и эффективный для мужского здоровья. Состав, когда прогуглила стало понятно, в отличии от аналогов в нем нет ничего вредног, основа — это аминокислоты и витамины. Эффект постепенно проявляется, но как по мне я начала замечать, что мужу стало чаще хотеться уже к концу первого месяца приема. На максимум он себя проявил месяцу к третьему, тут уже муж и выносливостью стал радовать и сам говорит, что ощущения обострились. В период стресса мужчинам советую принимать, поддержка здоровью отличная.
                 </div>
             </div>
             <div class="carousel__item">
                 <div class="carousel__img"><img src="img/reviews/сергей.jpg" alt="foto"></div>
                 <div class="carousel__title">Валиев Сергей</div>
                 <div class="carousel__descr">
-                    Хочу рассказать о компании Global Opt. Самое главное что меня радует, это быстрый поиск и анализ определенного товара. Доставлял через компанию уже много раз, от расходных материалов для отеля, до больших партий детской одежды. Буду продолжать пользоваться услугами данной компании
+                    Муж мой сейчас его принимает, рада что он именно на эффекс нейро остановился, так как препарат натуральный и эффективный для мужского здоровья. Состав, когда прогуглила стало понятно, в отличии от аналогов в нем нет ничего вредног, основа — это аминокислоты и витамины. Эффект постепенно проявляется, но как по мне я начала замечать, что мужу стало чаще хотеться уже к концу первого месяца приема. На максимум он себя проявил месяцу к третьему, тут уже муж и выносливостью стал радовать и сам говорит, что ощущения обострились. В период стресса мужчинам советую принимать, поддержка здоровью отличная.
                 </div>
             </div>
             <div class="carousel__item">
                 <div class="carousel__img"><img src="img/reviews/дмитрий.jpg" alt="foto"></div>
                 <div class="carousel__title">Иванов Дмитрий</div>
                 <div class="carousel__descr">
-                    Хочу рассказать о компании Global Opt. Самое главное что меня радует, это быстрый поиск и анализ определенного товара. Доставлял через компанию уже много раз, от расходных материалов для отеля, до больших партий детской одежды. Буду продолжать пользоваться услугами данной компании
+                    Муж мой сейчас его принимает, рада что он именно на эффекс нейро остановился, так как препарат натуральный и эффективный для мужского здоровья. Состав, когда прогуглила стало понятно, в отличии от аналогов в нем нет ничего вредног, основа — это аминокислоты и витамины. Эффект постепенно проявляется, но как по мне я начала замечать, что мужу стало чаще хотеться уже к концу первого месяца приема. На максимум он себя проявил месяцу к третьему, тут уже муж и выносливостью стал радовать и сам говорит, что ощущения обострились. В период стресса мужчинам советую принимать, поддержка здоровью отличная.
                 </div>
             </div> 
-            <div class="carousel__item">
-                <div class="carousel__img"><img src="img/reviews/s7_olga.jpg" alt="foto"></div>
-                <div class="carousel__title">Анисимова Ольга</div>
-                <div class="carousel__descr">
-                    Хочу рассказать о компании Global Opt. Самое главное что меня радует, это быстрый поиск и анализ определенного товара. Доставляла через компанию уже много раз, от расходных материалов для отеля, до больших партий детской одежды. Буду продолжать пользоваться услугами данной компании
-                </div>
-            </div>
         </div>
     </div>
    

diff --git a/dist/js/script.js b/dist/js/script.js
@@ -3,11 +3,11 @@ $(document).ready(function(){
         infinite: true,
         centerMode: true,
         centerPadding: '60px',
-        slidesToShow: 3,
+        slidesToShow: 1,
         prevArrow: '<button type="button" class="slick-prev"><img src="icons/arrows/arrowLeft.png"></button>',
         nextArrow: '<button type="button" class="slick-next"><img src="icons/arrows/arrowRight.png"></button>',
         autoplay: true,
-        autoplaySpeed: 1800,
+        autoplaySpeed: 1700,
         pauseOnHover: true,
         responsive: [
           {

diff --git a/src/js/script.js b/src/js/script.js
@@ -3,11 +3,11 @@ $(document).ready(function(){
         infinite: true,
         centerMode: true,
         centerPadding: '60px',
-        slidesToShow: 3,
+        slidesToShow: 1,
         prevArrow: '<button type="button" class="slick-prev"><img src="icons/arrows/arrowLeft.png"></button>',
         nextArrow: '<button type="button" class="slick-next"><img src="icons/arrows/arrowRight.png"></button>',
         autoplay: true,
-        autoplaySpeed: 1800,
+        autoplaySpeed: 1700,
         pauseOnHover: true,
         responsive: [
           {

diff --git a/src/sass/libs/_slick.scss b/src/sass/libs/_slick.scss
@@ -153,7 +153,7 @@
     opacity: 1;
     .carousel__title {
         margin-top: 14px;
-        font-size: 16px;
+        font-size: 20px;
         @media (max-width: 575px) {
             font-size: 14px;
         }
@@ -161,7 +161,7 @@
     .carousel__descr {
         margin-top: 2px;
         padding: 0;
-        font-size: 14px;
+        font-size: 16px;
         @media (max-width: 575px) {
             font-size: 12px;
         }

diff --git a/src/sass/blocks/_reviews.scss b/src/sass/blocks/_reviews.scss
@@ -19,7 +19,6 @@
         position: absolute;
         top: 12%;
         border: none;
-        background-color: white;
         &:active, &:focus {
             outline: none;
             border: none;
@@ -32,9 +31,11 @@
     .slick-prev {
         left: 41%;
         z-index: 2;
+        background-color: #cbad9b;
     }
     .slick-next {
         right: 41%;
+        background-color: #cca993;
     }
 }
 
